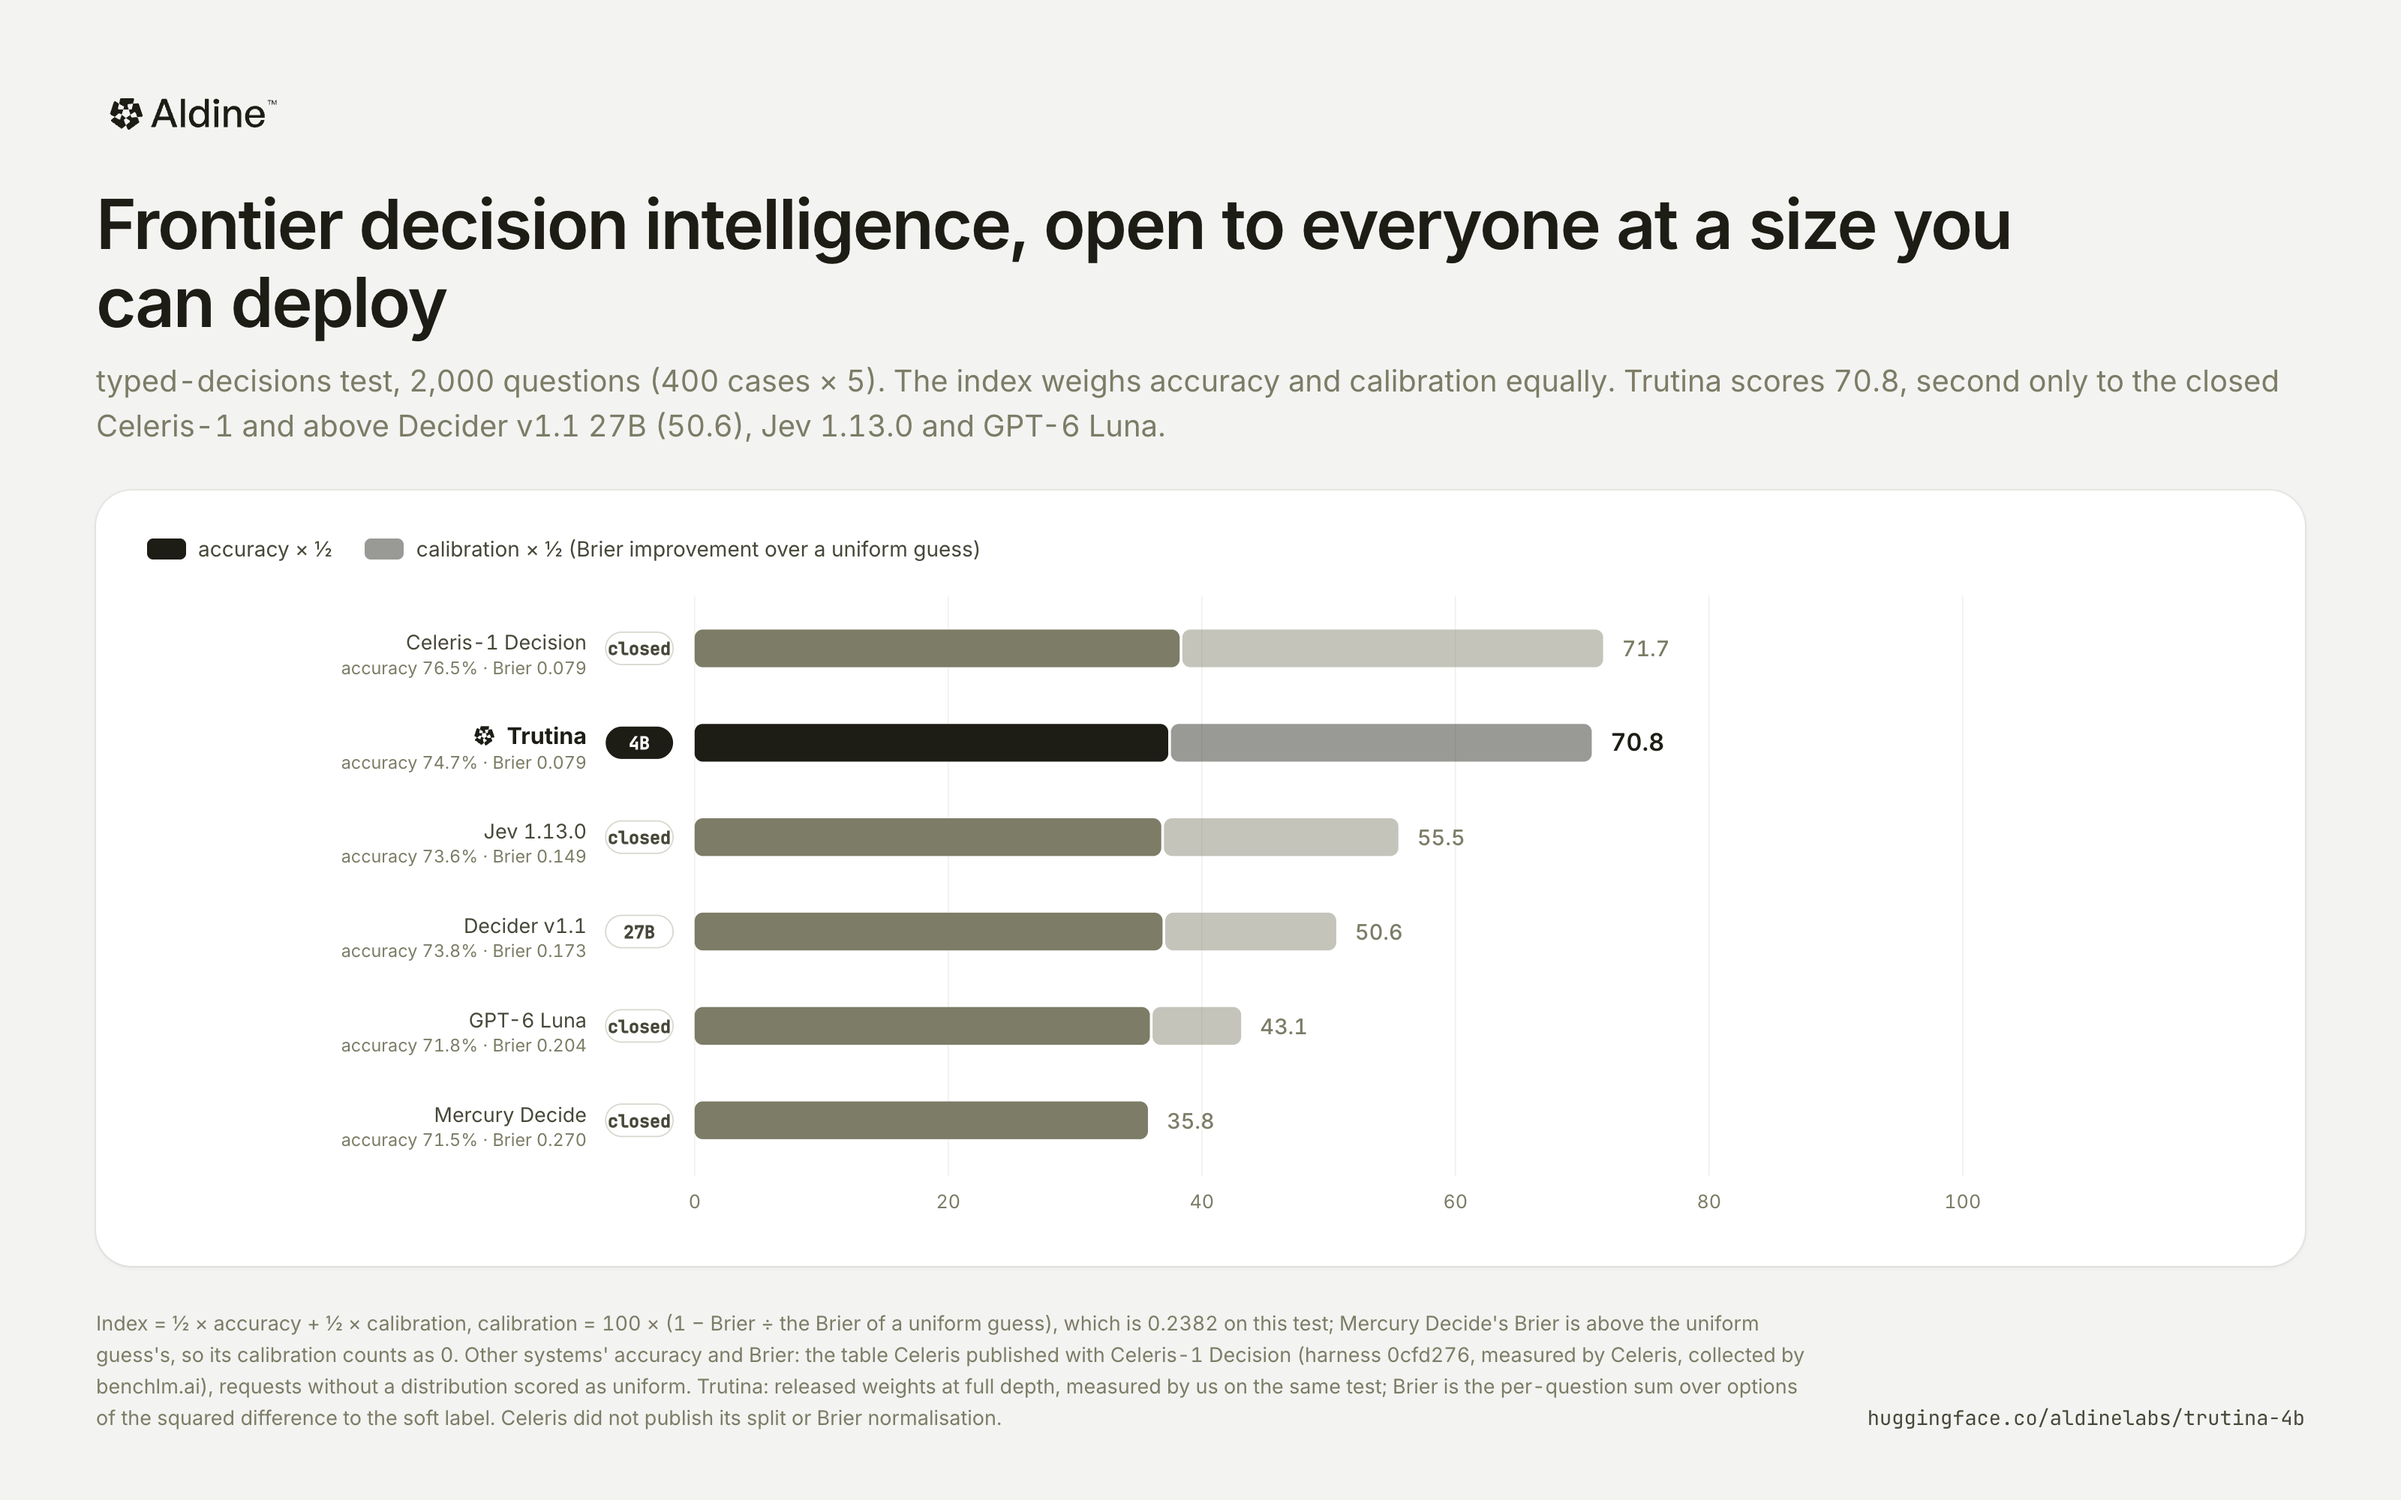
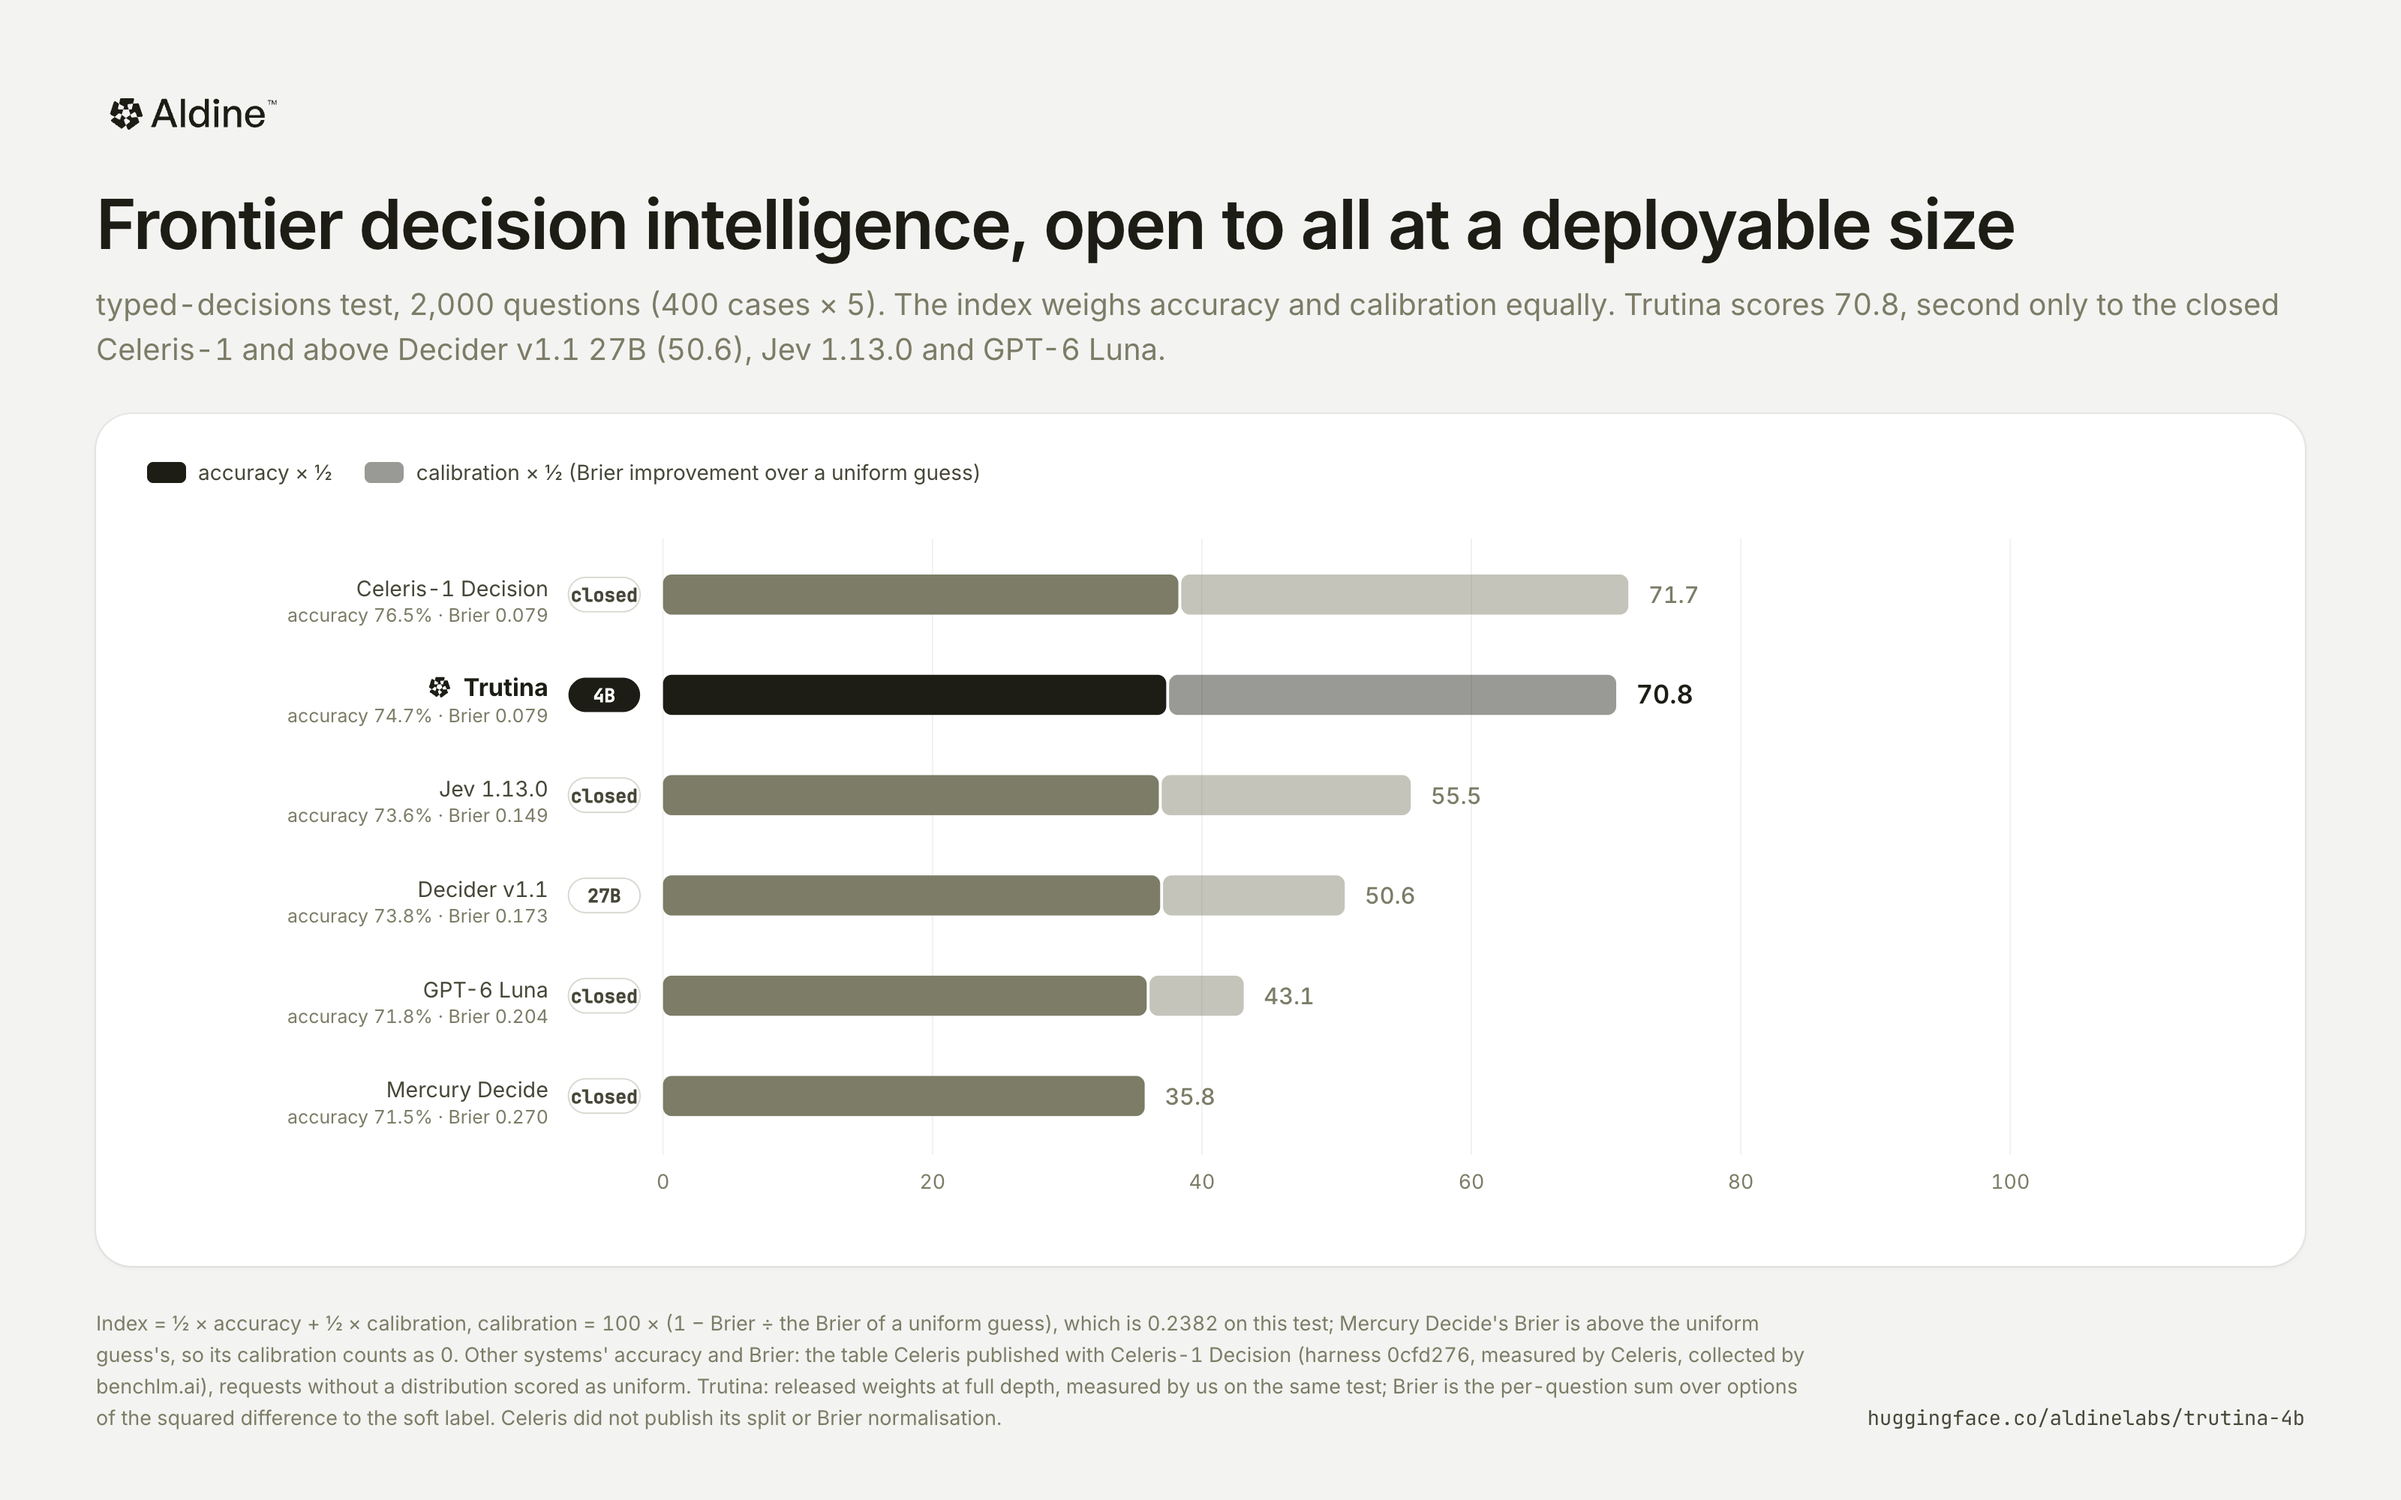
docs: shorter English typed index title fits one line

Changed region(s): [[0.0312, 0.124, 0.9375, 0.775]]

diff --git a/assets/charts/charts.html b/assets/charts/charts.html
@@ -358,7 +358,7 @@ function typed() {
     body: `<div class="card">${legend}${svgTag(W, H)}${g}</svg></div>`,
     src: `指数 = ½ × 准确率 + ½ × 校准分，校准分 = 100 ×（1 − Brier ÷ 均匀猜测的 Brier），均匀猜测在该测试集上的 Brier 为 ${D.typed.brier_uniform}；Mercury Decide 的 Brier 高于均匀猜测，校准分记为 0。除 Trutina 外，准确率与 Brier 取自 Celeris-1 Decision 发布时公布的对比表（评测框架 0cfd276，由 Celeris 自行测得，经 benchlm.ai 汇总），未能返回分布的请求按均匀分布计分。Trutina 为已发布权重、完整深度，由我们在同一测试集上测得；Brier 按每题各选项与软标签之差的平方和计算，Celeris 未公布其切分与 Brier 的归一化方式。`,
   } : {
-    title: "Frontier decision intelligence, open to everyone at a size you can deploy",
+    title: "Frontier decision intelligence, open to all at a deployable size",
     sub: `typed-decisions test, 2,000 questions (400 cases × 5). The index weighs accuracy and calibration equally. Trutina scores ${us.index.toFixed(1)}, second only to the closed Celeris-1 and above Decider v1.1 27B (${d27.index.toFixed(1)}), Jev 1.13.0 and GPT-6 Luna.`,
     body: `<div class="card">${legend}${svgTag(W, H)}${g}</svg></div>`,
     src: `Index = ½ × accuracy + ½ × calibration, calibration = 100 × (1 − Brier ÷ the Brier of a uniform guess), which is ${D.typed.brier_uniform} on this test; Mercury Decide's Brier is above the uniform guess's, so its calibration counts as 0. Other systems' accuracy and Brier: the table Celeris published with Celeris-1 Decision (harness 0cfd276, measured by Celeris, collected by benchlm.ai), requests without a distribution scored as uniform. Trutina: released weights at full depth, measured by us on the same test; Brier is the per-question sum over options of the squared difference to the soft label. Celeris did not publish its split or Brier normalisation.`,
